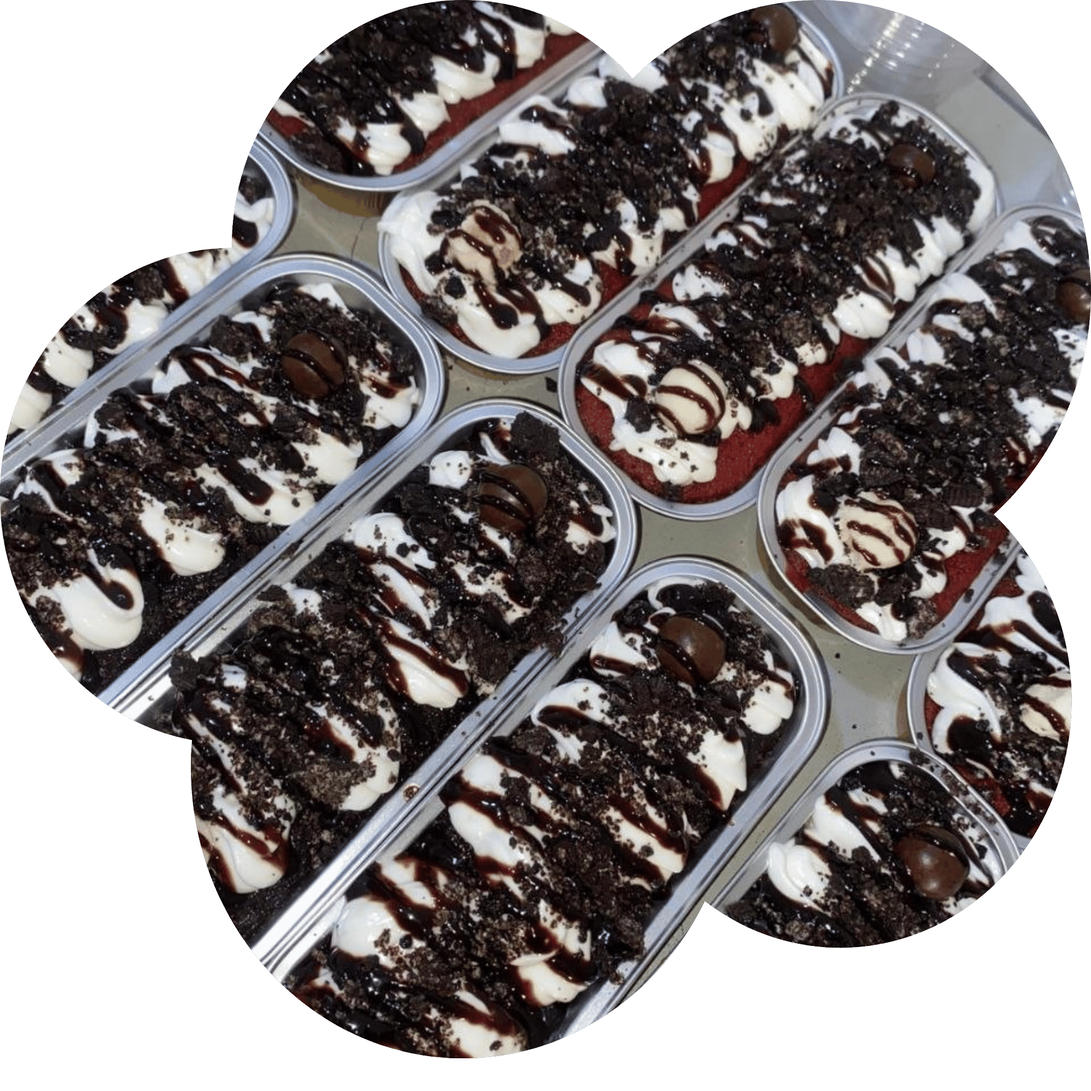
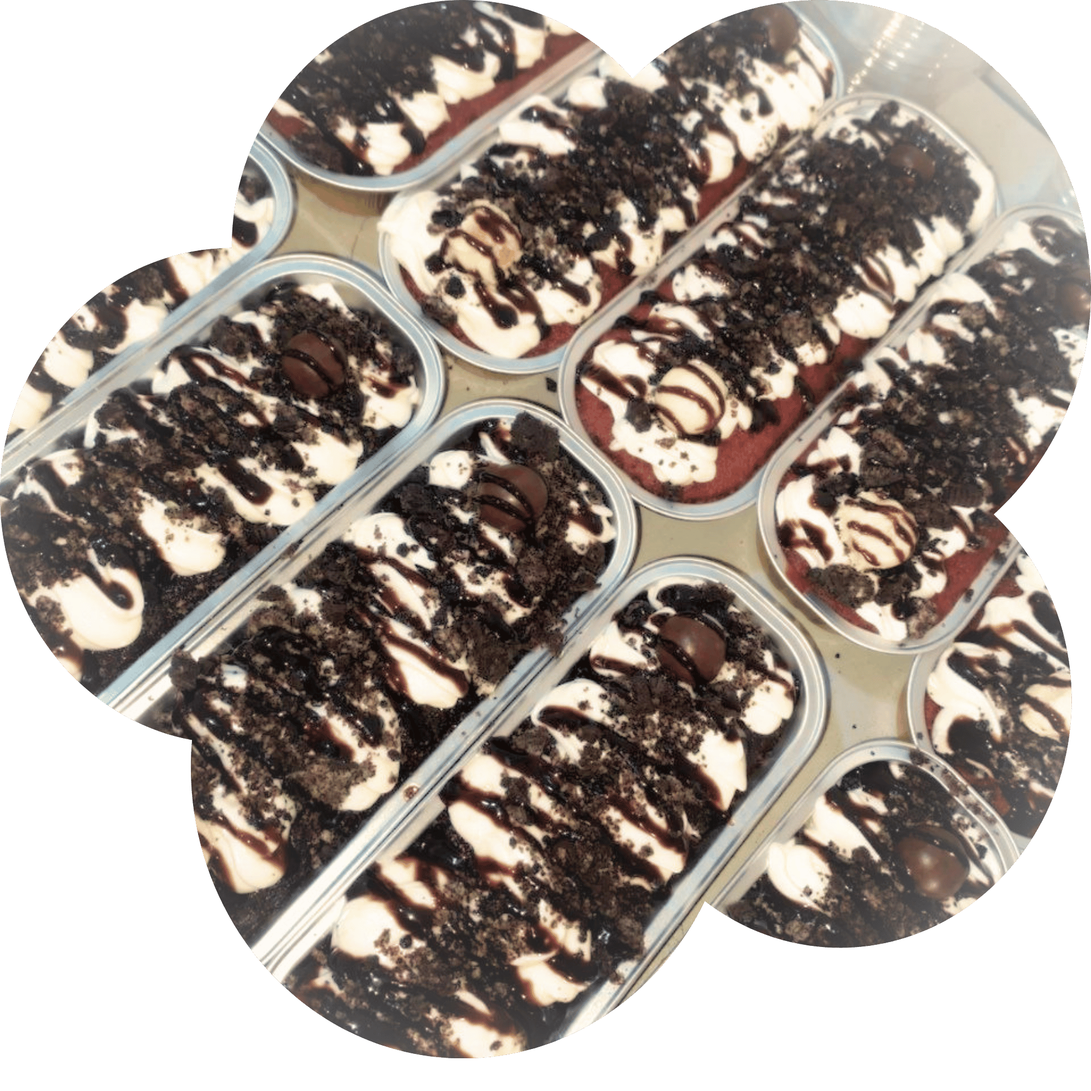
chore: change hero subtitle to Freshly Baked

diff --git a/client/src/sections/HeroSection.tsx b/client/src/sections/HeroSection.tsx
@@ -65,7 +65,7 @@ const HeroSection = () => {
                     </div>
                     <div className="hero-text-scroll">
                         <div className="hero-subtitle bg-mid-brown">
-                            <h1 className="text-milk">Freshly Baked for You</h1>
+                            <h1 className="text-milk">Freshly Baked</h1>
                         </div>
                     </div>
                     <h2 className="text-dark-brown font-semibold bg-milk/70 p-4 rounded-xl backdrop-blur-sm">We bake premium bespoke cakes and parfaits out of the finest ingredients you love... chocolate fudge, red velvet, bananas, caramel, and more. Made to sweeten every moment.</h2>
